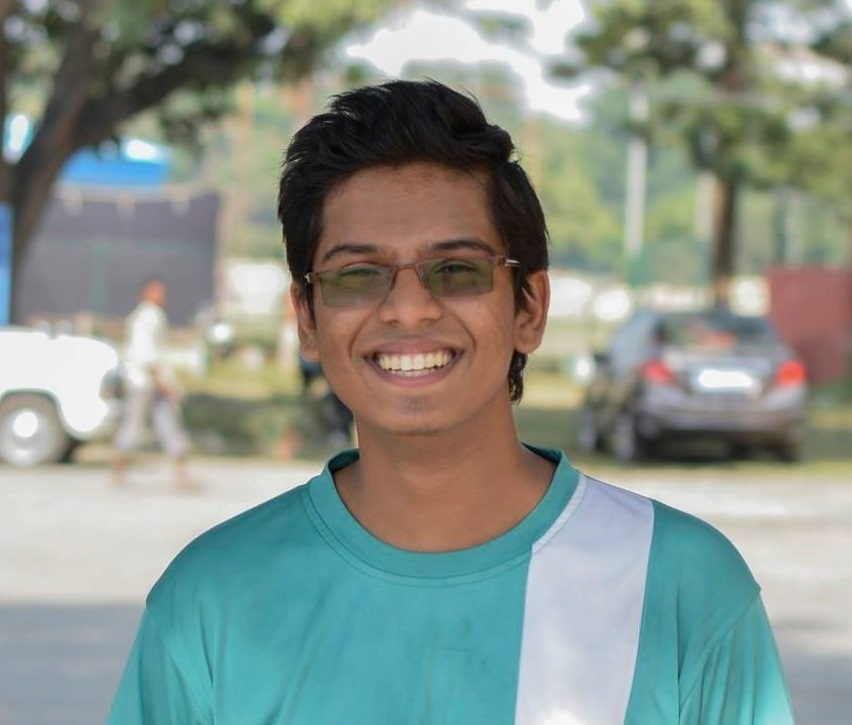
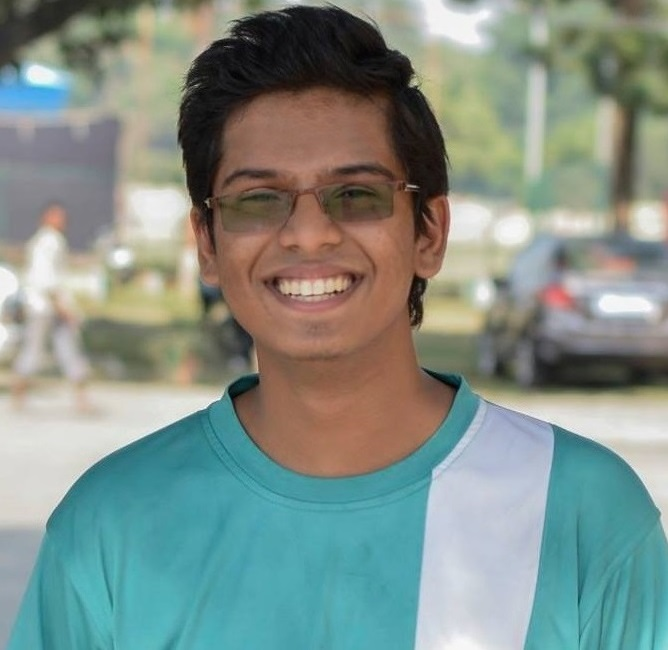
Home page done

diff --git a/index.html b/index.html
@@ -6,13 +6,17 @@
 	<link rel="stylesheet" type="text/css" href="styles/style.css">
 	<link rel="stylesheet" type="text/css" href="styles/animate.css">
 	<link rel="stylesheet" type="text/css" href="font-awesome/css/font-awesome.min.css">
-	<link href="https://fonts.googleapis.com/css?family=Cormorant+Garamond|Indie+Flower|Rock+Salt|Trirong" rel="stylesheet">
+	<link href="https://fonts.googleapis.com/css?family=Cormorant+Garamond|Indie+Flower|Rock+Salt|Trirong|Quattrocento+Sans|Slabo+27px" rel="stylesheet">	
 </head>
 <body>
-	<div class="img-section one">
-		<div class="inside-text fadeInDown animated">
-			Welcome to Arqk's Website!
+	<div class="img-section fadeIn animated one">
+		<div class="inside-text fadeIn animated">
+			Yashit Maheshwary<br>
+			<span class="inside-text-2">B.Tech CSE Student at IIIT, Delhi</span>
 		</div>
+		<!--<div class="inside-text-2 zoomIn animated">
+			Student|Programmer
+		</div>-->
 	</div>	
 	<div class="text-section-60">
 		Hi, I am Yashit Maheshwary, a first year CSE student at IIIT, Delhi. I am passionate about Web App Development. I have a professional working proficiency in HTML, CSS, Python, MYSQL and C++. I also have an elementary proficiency in PHP, Javascript and Java.

diff --git a/styles/style.css b/styles/style.css
@@ -20,11 +20,11 @@ html, body {
 }
 
 .one {
-	background-image: url(../img/cropped.jpg);
+	background-image: url(../img/bg-dark-blurred.jpg);
 }
 
 .two {
-	background-image: url(../img/fixed-bg.jpg);
+	background-image: url(../img/bg-dark-blurred.jpg);
 }
 
 .three {
@@ -62,6 +62,29 @@ html, body {
 }
 
 .inside-text {
-	font-family: 'Rock Salt', cursive;
-	font-weight: bolder;
+	font-family: 'Quattrocento Sans', sans-serif;
+	color: #f2f2f2;
+	font-weight: 900;
+	position: absolute;
+	top: 50%;
+    left: 50%;
+    transform: translateX(-50%) translateY(-50%);  
+    margin-bottom: -20px;
+}
+
+.inside-text-2 {
+	font-family: 'Slabo 27px', sans-serif;
+	color: #f2f2f2;
+	font-weight: bold;
+	font-size: 25px;
+}
+
+.my-img {
+	border: 10px solid transparent;
+	margin-left: auto;
+	margin-right: auto;
+}
+
+::selection {
+    background: #555;
 }

diff --git a/styles/animate.css b/styles/animate.css
@@ -9,8 +9,8 @@
  */
 
 .animated {
-  -webkit-animation-duration: 1s;
-  animation-duration: 1s;
+  -webkit-animation-duration: 2s;
+  animation-duration: 2s;
   -webkit-animation-fill-mode: both;
   animation-fill-mode: both;
 }
